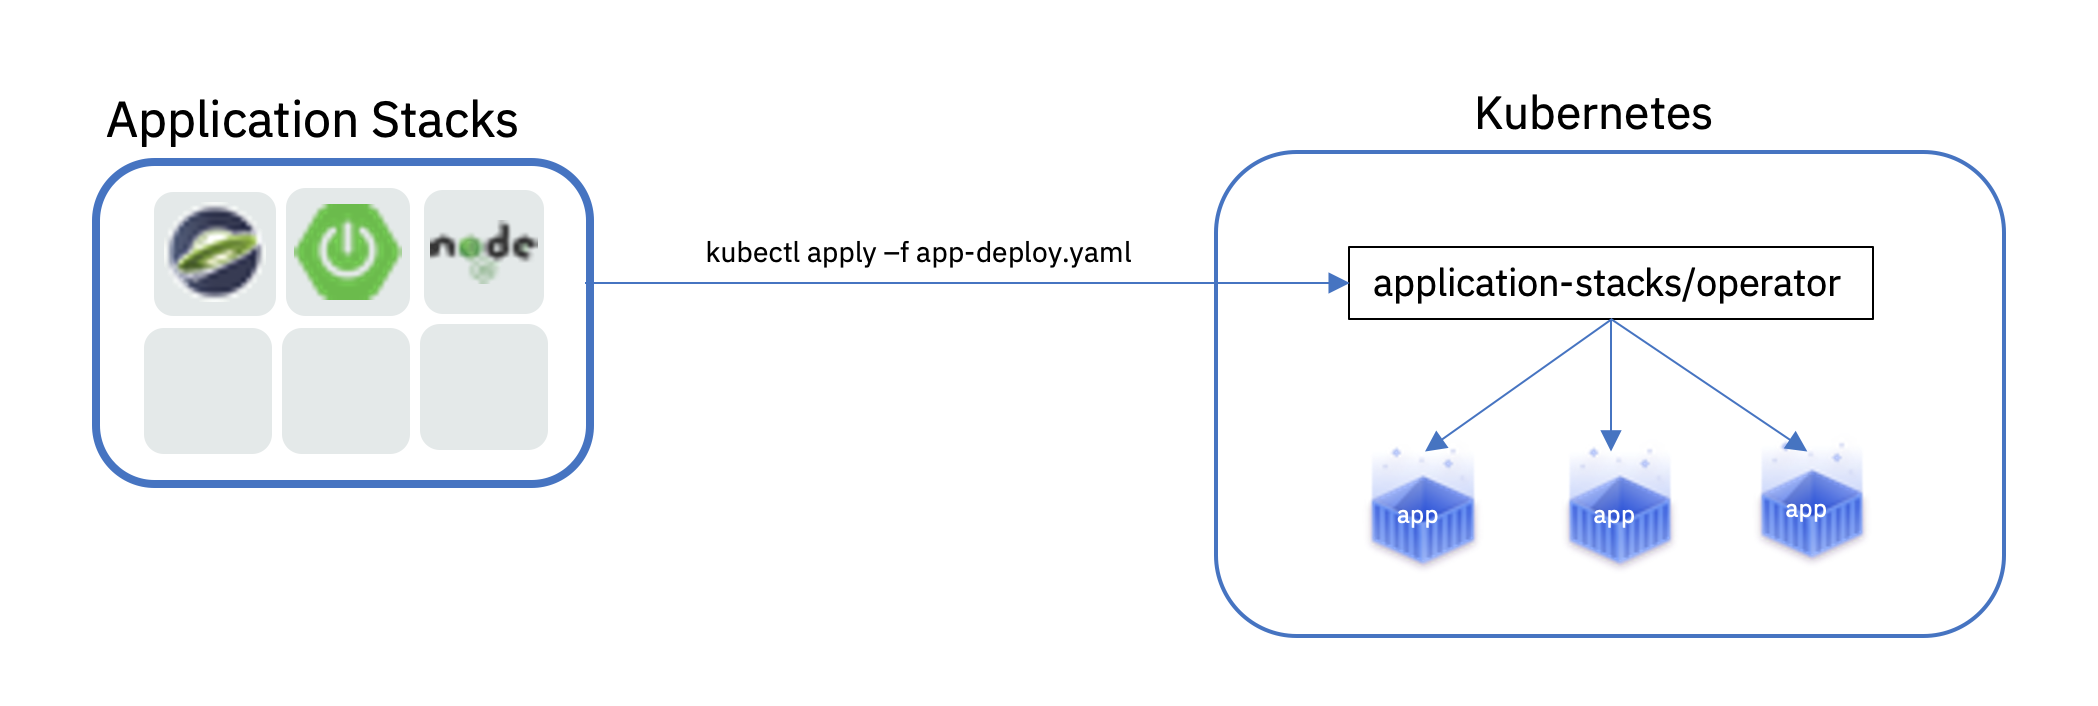
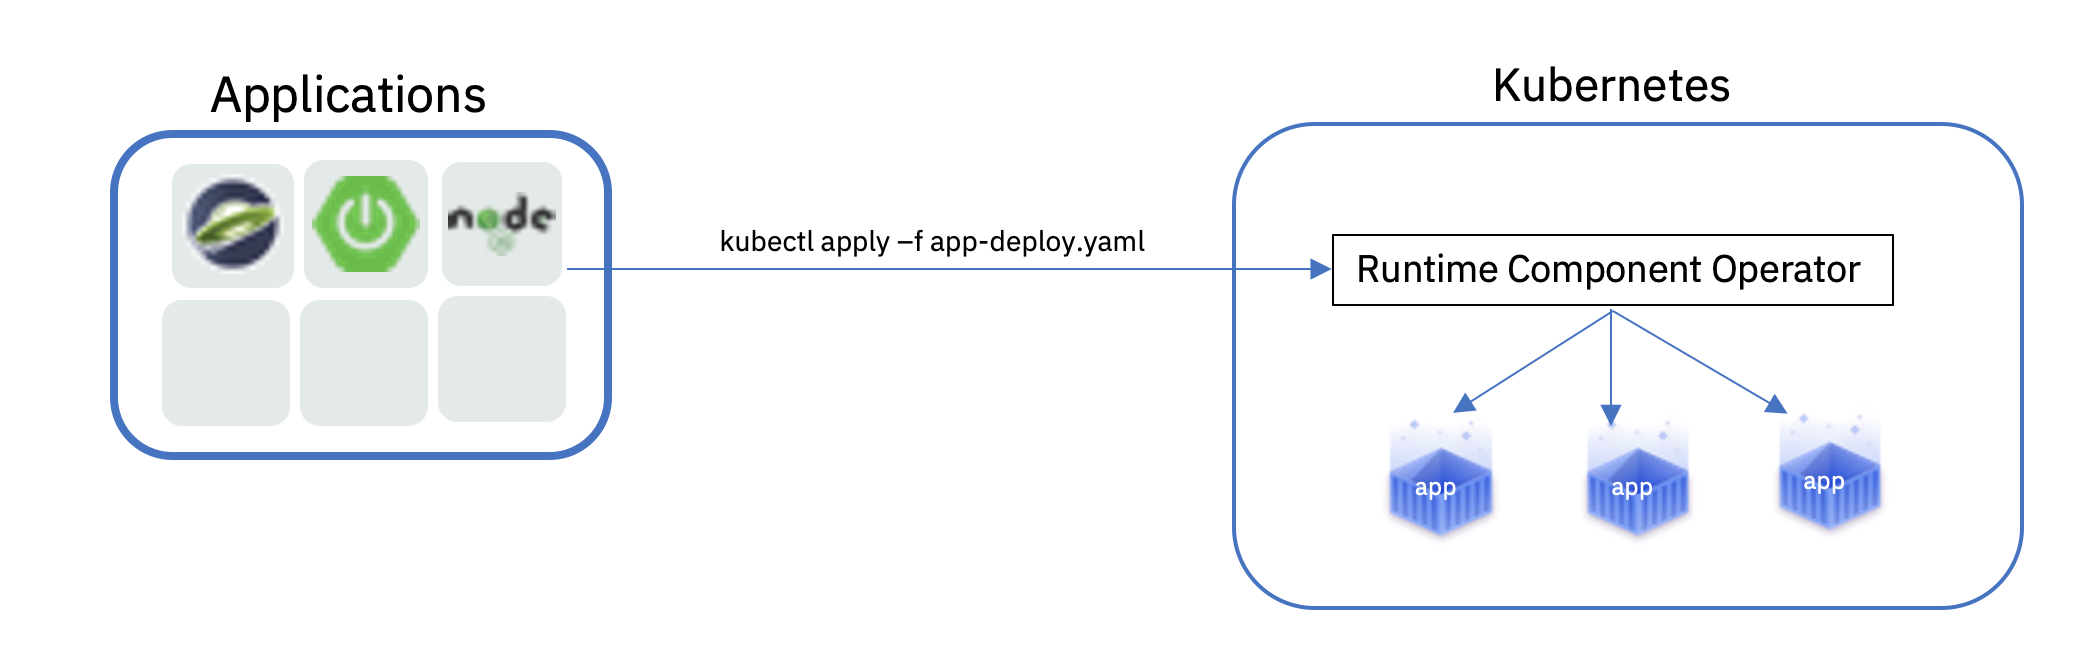
Updating docs

diff --git a/doc/user-guide.md b/doc/user-guide.md
@@ -1,4 +1,4 @@
-# Application Stacks Operator
+# Runtime Component Operator
 
 This generic Operator is capable of deploying any application image and can be imported into any runtime-specific Operator as library of application capabilities.  This architecture ensures compatibility and consistency between all runtime Operators, allowing everyone to benefit from the functionality added in this project.
 
@@ -6,7 +6,7 @@ This generic Operator is capable of deploying any application image and can be i
 
 Use the instructions for one of the releases to install the operator into a Kubernetes cluster.
 
-The Application Stacks Operator can be installed to:
+The Runtime Component Operator can be installed to:
 
 - watch own namespace
 - watch another namespace
@@ -17,7 +17,7 @@ Appropriate cluster roles and bindings are required to watch another namespace, 
 
 ## Overview
 
-The architecture of the Application Stacks Operator follows the basic controller pattern:  the Operator container with the controller is deployed into a Pod and listens for incoming resources with `Kind: RuntimeComponent`. Creating a `RuntimeComponent` custom resource (CR) triggers the Application Stacks Operator to create, update or delete Kubernetes resources needed by the application to run on your cluster.
+The architecture of the Runtime Component Operator follows the basic controller pattern:  the Operator container with the controller is deployed into a Pod and listens for incoming resources with `Kind: RuntimeComponent`. Creating a `RuntimeComponent` custom resource (CR) triggers the Runtime Component Operator to create, update or delete Kubernetes resources needed by the application to run on your cluster.
 
 Each instance of `RuntimeComponent` CR represents the application to be deployed on the cluster:
 
@@ -263,7 +263,7 @@ Run multiple instances of your application for high availability using one of th
 
 ### Persistence
 
-Application Stacks Operator is capable of creating a `StatefulSet` and `PersistentVolumeClaim` for each pod if storage is specified in the `RuntimeComponent` CR.
+Runtime Component Operator is capable of creating a `StatefulSet` and `PersistentVolumeClaim` for each pod if storage is specified in the `RuntimeComponent` CR.
 
 Users also can provide mount points for their application. There are 2 ways to enable storage.
 
@@ -287,7 +287,7 @@ spec:
 
 #### Advanced storage
 
-Application Stacks Operator allows users to provide entire `volumeClaimTemplate` for full control over automatically created `PersistentVolumeClaim`.
+Runtime Component Operator allows users to provide entire `volumeClaimTemplate` for full control over automatically created `PersistentVolumeClaim`.
 
 It is also possible to create multiple volume mount points for persistent volume using `volumeMounts` field as shown below. You can still use `storage.mountPath` if you require only a single mount point.
 
@@ -320,7 +320,7 @@ spec:
 
 ### Service binding
 
-Application Stacks Operator can be used to help with service binding in a cluster. The operator creates a secret on behalf of the **provider** `RuntimeComponent` and injects the secret into pods of the **consumer** `RuntimeComponent` as either environment variable or mounted files. See [Application Stacks Operator Design for Service Binding](https://docs.google.com/document/d/1riOX0iTnBBJpTKAHcQShYVMlgkaTNKb4m8fY7W1GqMA/edit) for more information on the architecture. At this time, the only supported service binding type is `openapi`.
+Runtime Component Operator can be used to help with service binding in a cluster. The operator creates a secret on behalf of the **provider** `RuntimeComponent` and injects the secret into pods of the **consumer** `RuntimeComponent` as either environment variable or mounted files. See [Runtime Component Operator Design for Service Binding](https://docs.google.com/document/d/1riOX0iTnBBJpTKAHcQShYVMlgkaTNKb4m8fY7W1GqMA/edit) for more information on the architecture. At this time, the only supported service binding type is `openapi`.
 
 The provider lists information about the REST API it provides:
 
@@ -382,7 +382,7 @@ If consumer's CR does not include `mountPath`, the secret will be bound to envir
 
 ### Monitoring
 
-Application Stacks Operator can create a `ServiceMonitor` resource to integrate with `Prometheus Operator`.
+Runtime Component Operator can create a `ServiceMonitor` resource to integrate with `Prometheus Operator`.
 
 _This feature does not support integration with Knative Service. Prometheus Operator is required to use ServiceMonitor._
 
@@ -431,7 +431,7 @@ spec:
 
 ### Knative support
 
-Application Stacks Operator can deploy serverless applications with [Knative](https://knative.dev/docs/) on a Kubernetes cluster. To achieve this, the operator creates a [Knative `Service`](https://github.com/knative/serving/blob/master/docs/spec/spec.md#service) resource which manages the whole life cycle of a workload.
+Runtime Component Operator can deploy serverless applications with [Knative](https://knative.dev/docs/) on a Kubernetes cluster. To achieve this, the operator creates a [Knative `Service`](https://github.com/knative/serving/blob/master/docs/spec/spec.md#service) resource which manages the whole life cycle of a workload.
 
 To create Knative service, set `createKnativeService` to `true`:
 
@@ -498,7 +498,7 @@ To configure secure HTTPS connections for your Knative deployment, see [Configur
 
 ### Kubernetes Application Navigator (kAppNav) support
 
-By default, Application Stacks Operator configures the Kubernetes resources it generates to allow automatic creation of an application definition by [kAppNav](https://kappnav.io/), Kubernetes Application Navigator. You can easily view and manage the deployed resources that comprise your application using Application Navigator. You can disable auto-creation by setting `createAppDefinition` to `false`.
+By default, Runtime Component Operator configures the Kubernetes resources it generates to allow automatic creation of an application definition by [kAppNav](https://kappnav.io/), Kubernetes Application Navigator. You can easily view and manage the deployed resources that comprise your application using Application Navigator. You can disable auto-creation by setting `createAppDefinition` to `false`.
 
 To join an existing application definition, disable auto-creation and set the label(s) needed to join the application on `RuntimeComponent` CR. See [Labels](#labels) section for more information.
 
@@ -506,7 +506,7 @@ _This feature is only available if you have kAppNav installed on your cluster. A
 
 ### Certificate Manager Integration
 
-Application Stacks Operator is enabled to take advantage of [cert-manager](https://cert-manager.io/) tool, if it is installed on the cluster.
+Runtime Component Operator is enabled to take advantage of [cert-manager](https://cert-manager.io/) tool, if it is installed on the cluster.
 This allows to automatically provision TLS certificates for pods as well as routes.
 
 Cert-manager installation instruction can be found [here](https://cert-manager.io/docs/installation/)

diff --git a/README.md b/README.md
@@ -1,11 +1,11 @@
 [![Build Status](https://travis-ci.org/application-stacks/operator.svg?branch=master)](https://travis-ci.org/application-stacks/operator)
 
-# Application Stacks Operator
+# Runtime Component Operator
 This generic Operator is capable of deploying any application image with consistent, production-grade QoS.  It enables enterprise architects to govern the way their applications get deployed & managed in the cluster, while dramatically reducing the learning curve for developers to deploy into Kubernetes - allowing them to focus on writing the code!
 
 Check out [our docs](https://github.com/application-stacks/operator/blob/master/doc/user-guide.md) to get started.
 
-Learn more about the Application Stack [architecture](https://appsody.dev/docs/stacks/stacks-overview/) to see how easy it is to use the community's Application Stack Hub to create your own configured and curated Hub!
+A great way to develop these runtime components is through Application Stacks.  Learn more about the [stacks architecture](https://appsody.dev/docs/stacks/stacks-overview/) to see how easy it is to use the community's Application Stack Hub to create your own configured and curated Hub!
 
 ![Architecture](doc/images/operator_overview.png)
 

diff --git a/doc/readme.md b/doc/readme.md
@@ -1,4 +1,4 @@
 # Documentation
 
-* See the [user guide](user-guide.md), for information on how to use the Application Stacks Operator.
+* See the [user guide](user-guide.md), for information on how to use the Runtime Component Operator.
 * See the [troubleshooting guide](troubleshooting.md) for information on how to investigate and resolve deployment problems.
